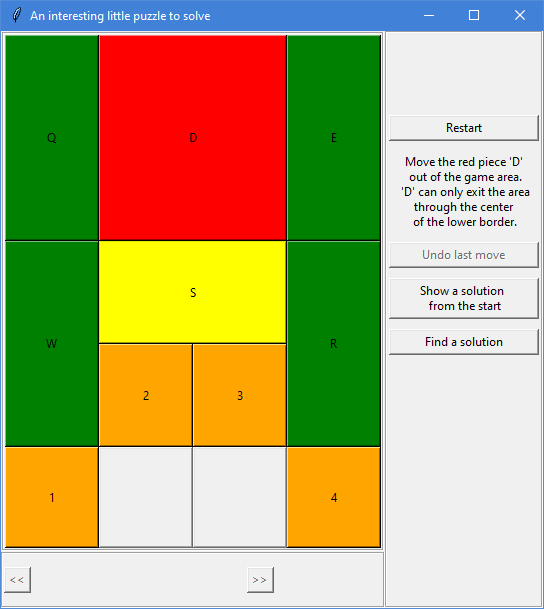
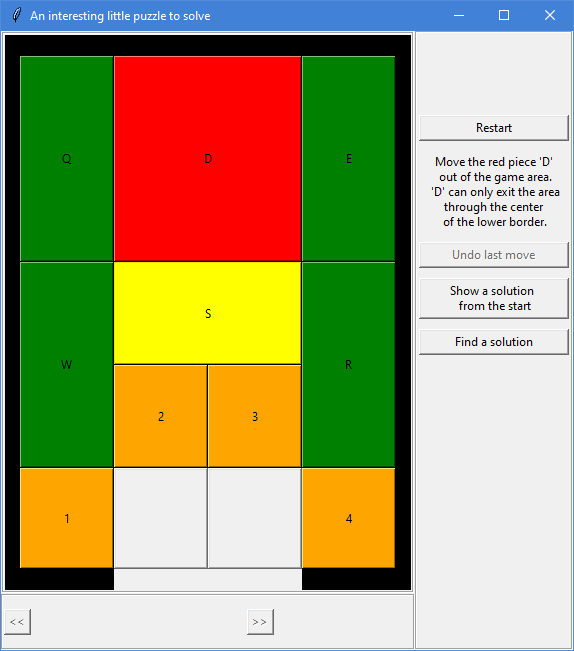
updated readme and screenshot

diff --git a/readme.md b/readme.md
@@ -19,15 +19,15 @@ This is the real life puzzle which inspired this project.
 ### Currently working on
 - reworking Positions class (maybe changes to Puzzlegame class as well)
 - borders to the playing area (is it good now?)
-- saving positions to a database
 
 
 ### Possible issues
+- Trying to move the big piece out of the puzzle area should maybe give a better response than "cannot move down".
 - Solver does not distinguish between mirrored positions, which might cause problems.
 
 
 ### Things to add maybe
-<!-- - saving positions to databases instead of files -->
+- saving positions to databases instead of files
 - classes for pieces??
 - exploring weird paths (far from solutions)
 - would qt be better than tkinter?
